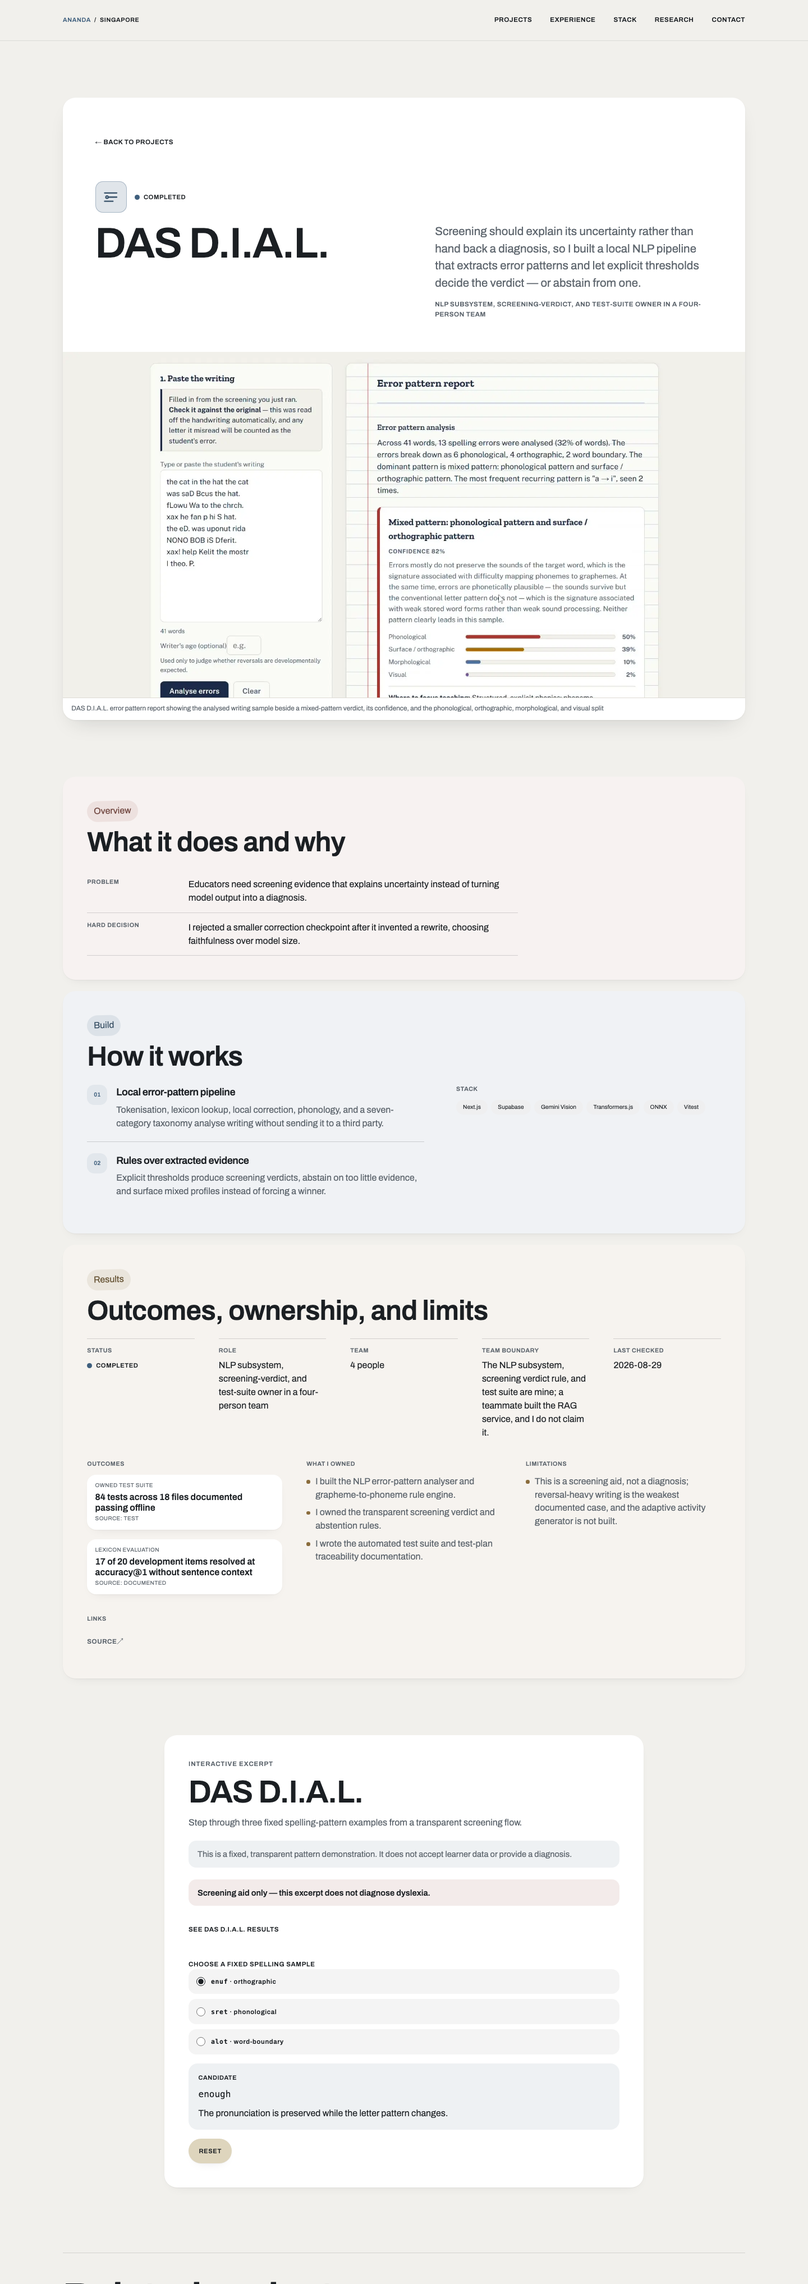
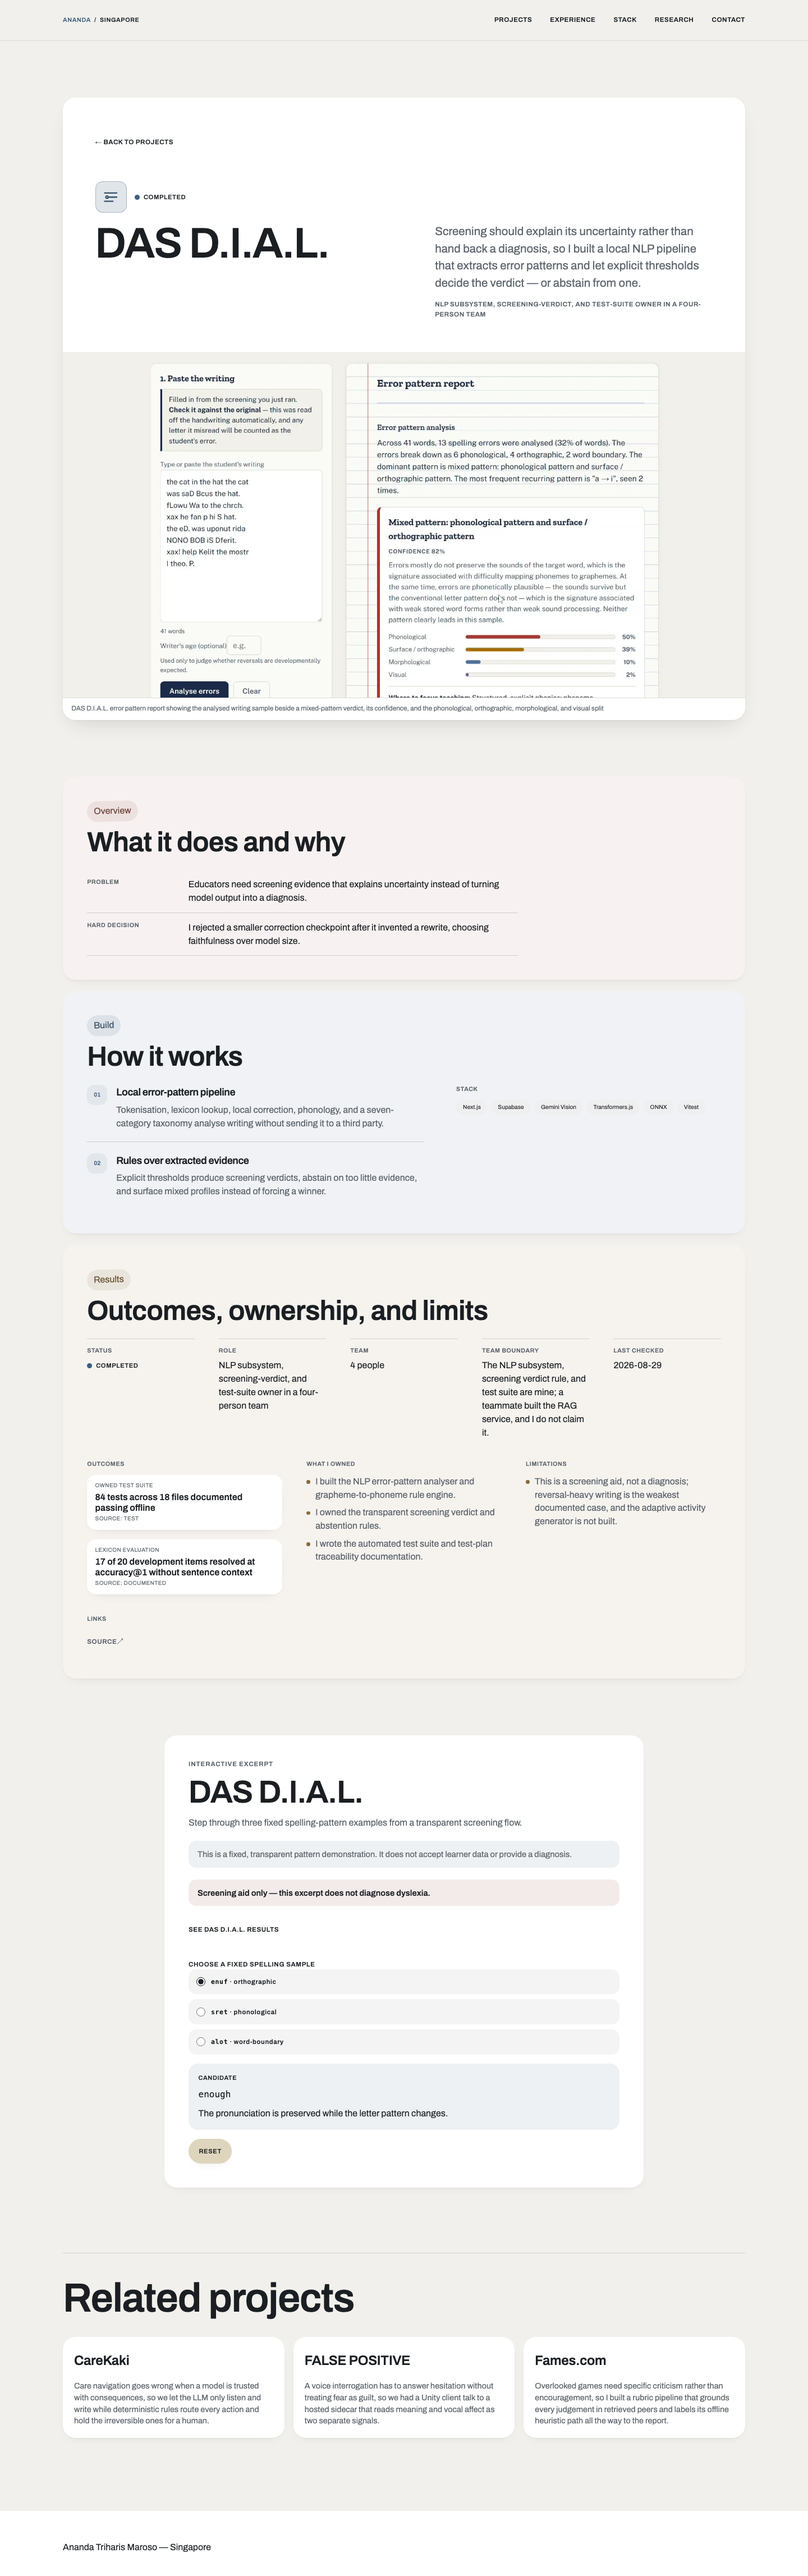
docs: regenerate screenshots with the motion layer

diff --git a/docs/screenshots/README.md b/docs/screenshots/README.md
@@ -1,7 +1,7 @@
 # Portfolio screenshots
 
 Full-page captures of every page in the portfolio, taken from a local production
-build at 1440px width on 2026-08-29. Each image is the complete page, top to
+build at 1440px width on 2026-08-30. Each image is the complete page, top to
 bottom, with all scroll-reveal animations settled.
 
 ## Home
@@ -34,8 +34,29 @@ Listed in the order they appear on the site.
 
 Build and serve the site (`npm run build`, then `npx next start --port 3789`),
 then capture each page at 1440px wide with the viewport sized to the full page
-height so nothing is downscaled. Scroll-reveal animations are `once: true`, so a
-full-height viewport settles them before capture.
+height so nothing is downscaled.
+
+Order matters, because the reveal observer uses `rootMargin: '0px 0px -8% 0px'`
+and that 8% is measured against the viewport. At a page-tall viewport it becomes
+a dead band hundreds of pixels deep, and the foot of the page never intersects:
+load at **1440x900** first, scroll to the bottom to reveal everything, then
+**resize** the viewport to the full page height and capture. Resize, never
+navigate again — a second load throws away every `is-revealed` class and the
+capture catches the page mid-reveal.
+
+Before each capture, assert that no `[data-reveal]` element is left below
+`opacity: 0.99`. That check is what catches a mistimed shot; the image itself
+looks plausible either way.
+
+Two things move once the viewport is page-tall, so re-measure `scrollHeight`
+after the resize and resize again until it stops changing. The home hero pads
+with `clamp(2.5rem, 6vh, 5.5rem)`, which reaches its ceiling at any tall
+viewport and adds 60px; capturing at the height measured on a 900px viewport
+crops that much off the footer. And on the three case studies that have one
+(`fix-yo-yap`, `carekaki`, `das-dial`), the interactive excerpt mounts itself
+when the scroll pass reaches it, which is why those images show the excerpt
+open rather than its load button. Both are properties of the page, not the
+motion layer: the same growth happens with motion off.
 
 Serve from a port you have not used before in the same browser session. The
 image optimizer sends a long `Cache-Control`, so a screenshot re-taken against
